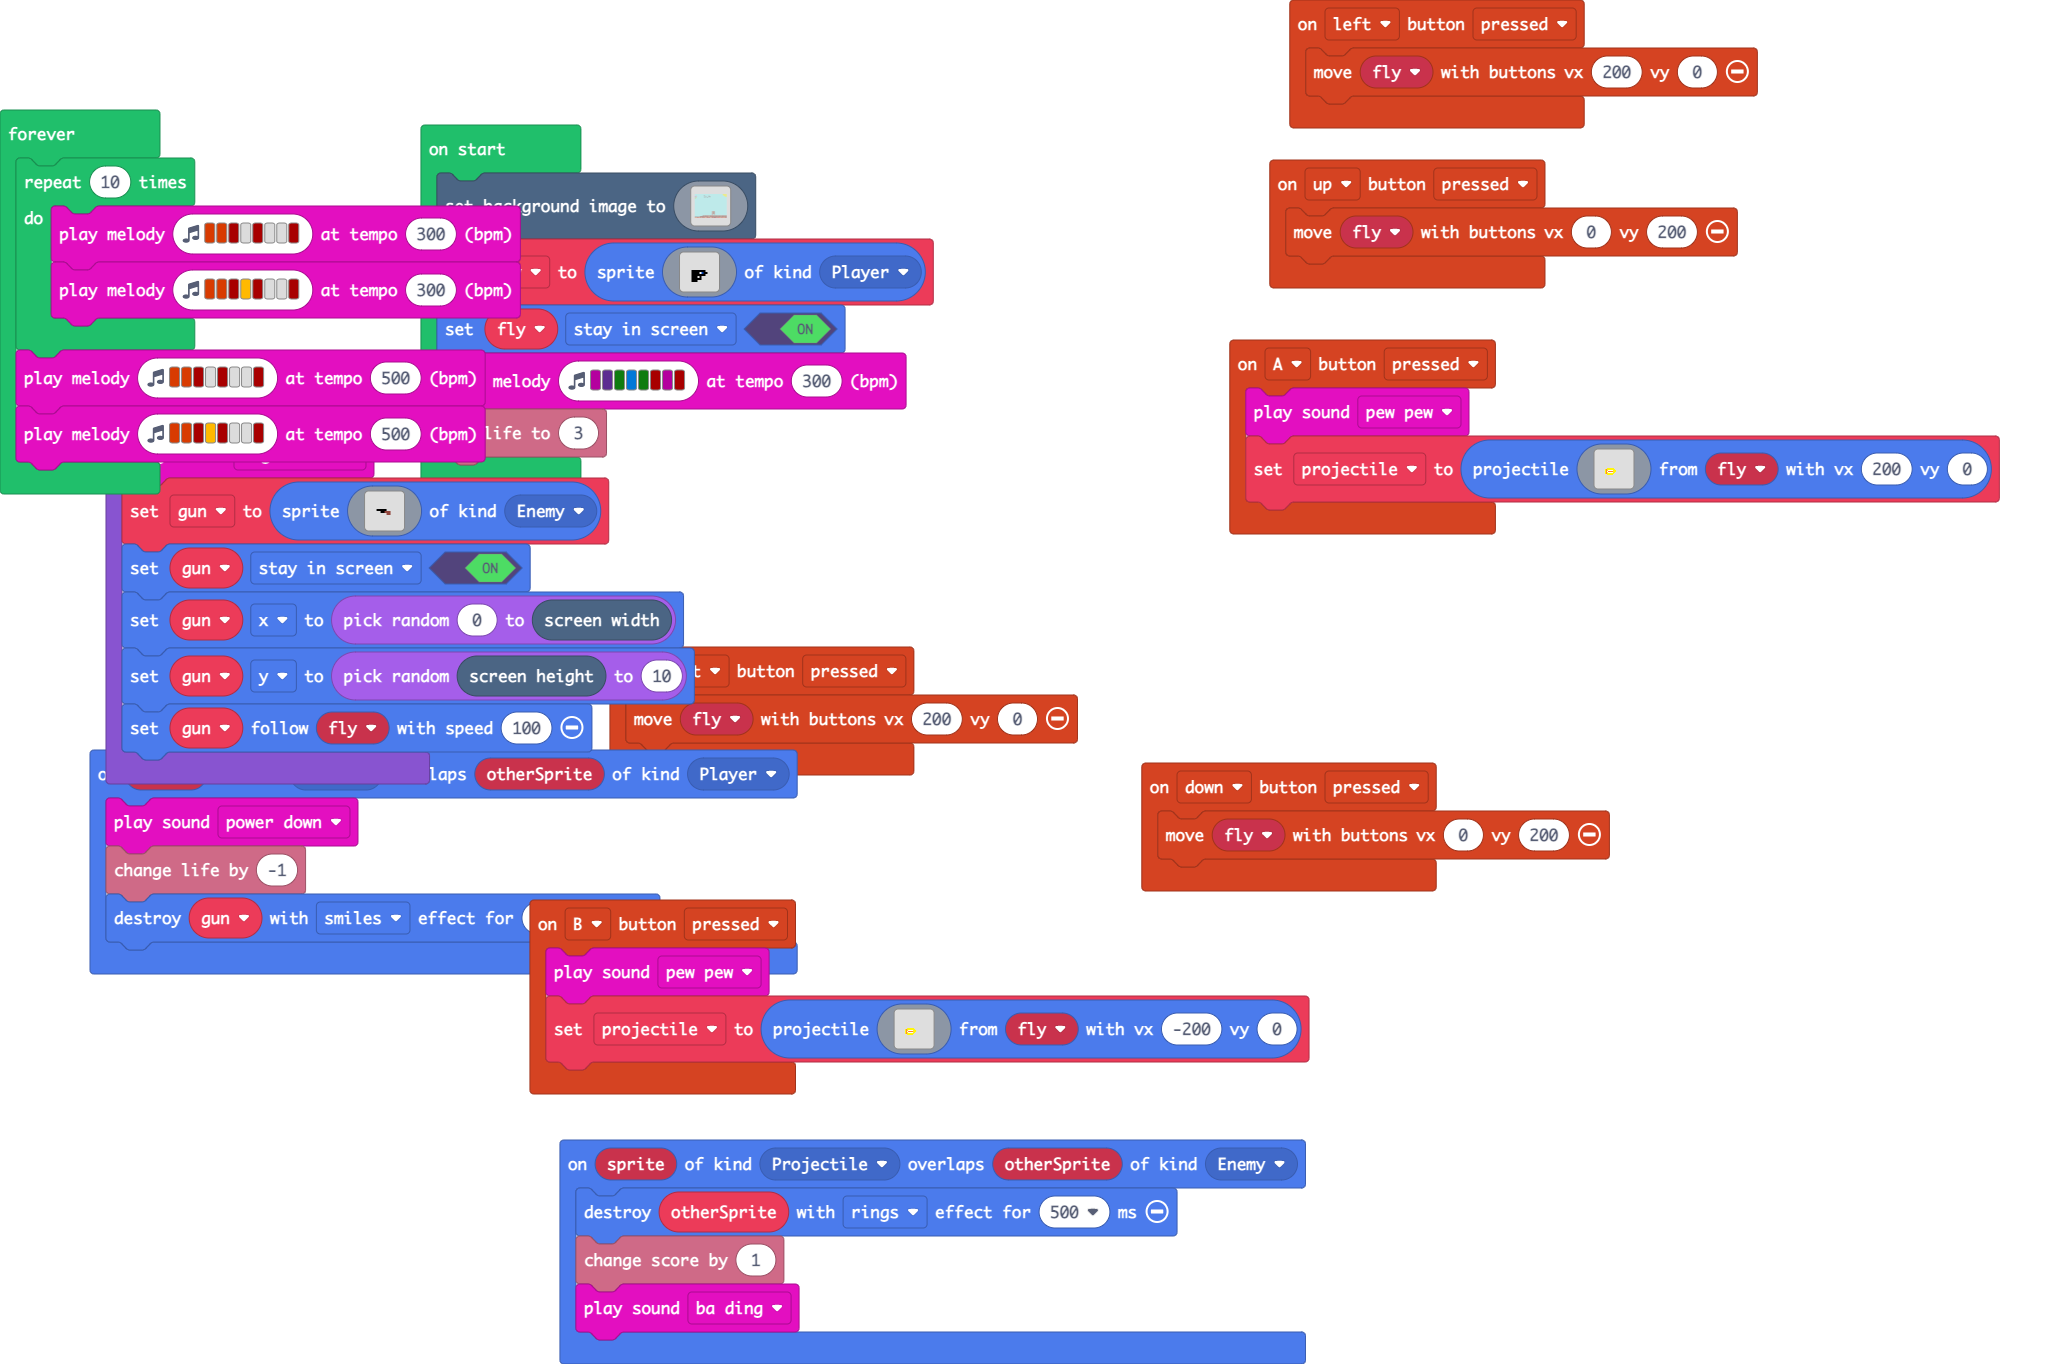
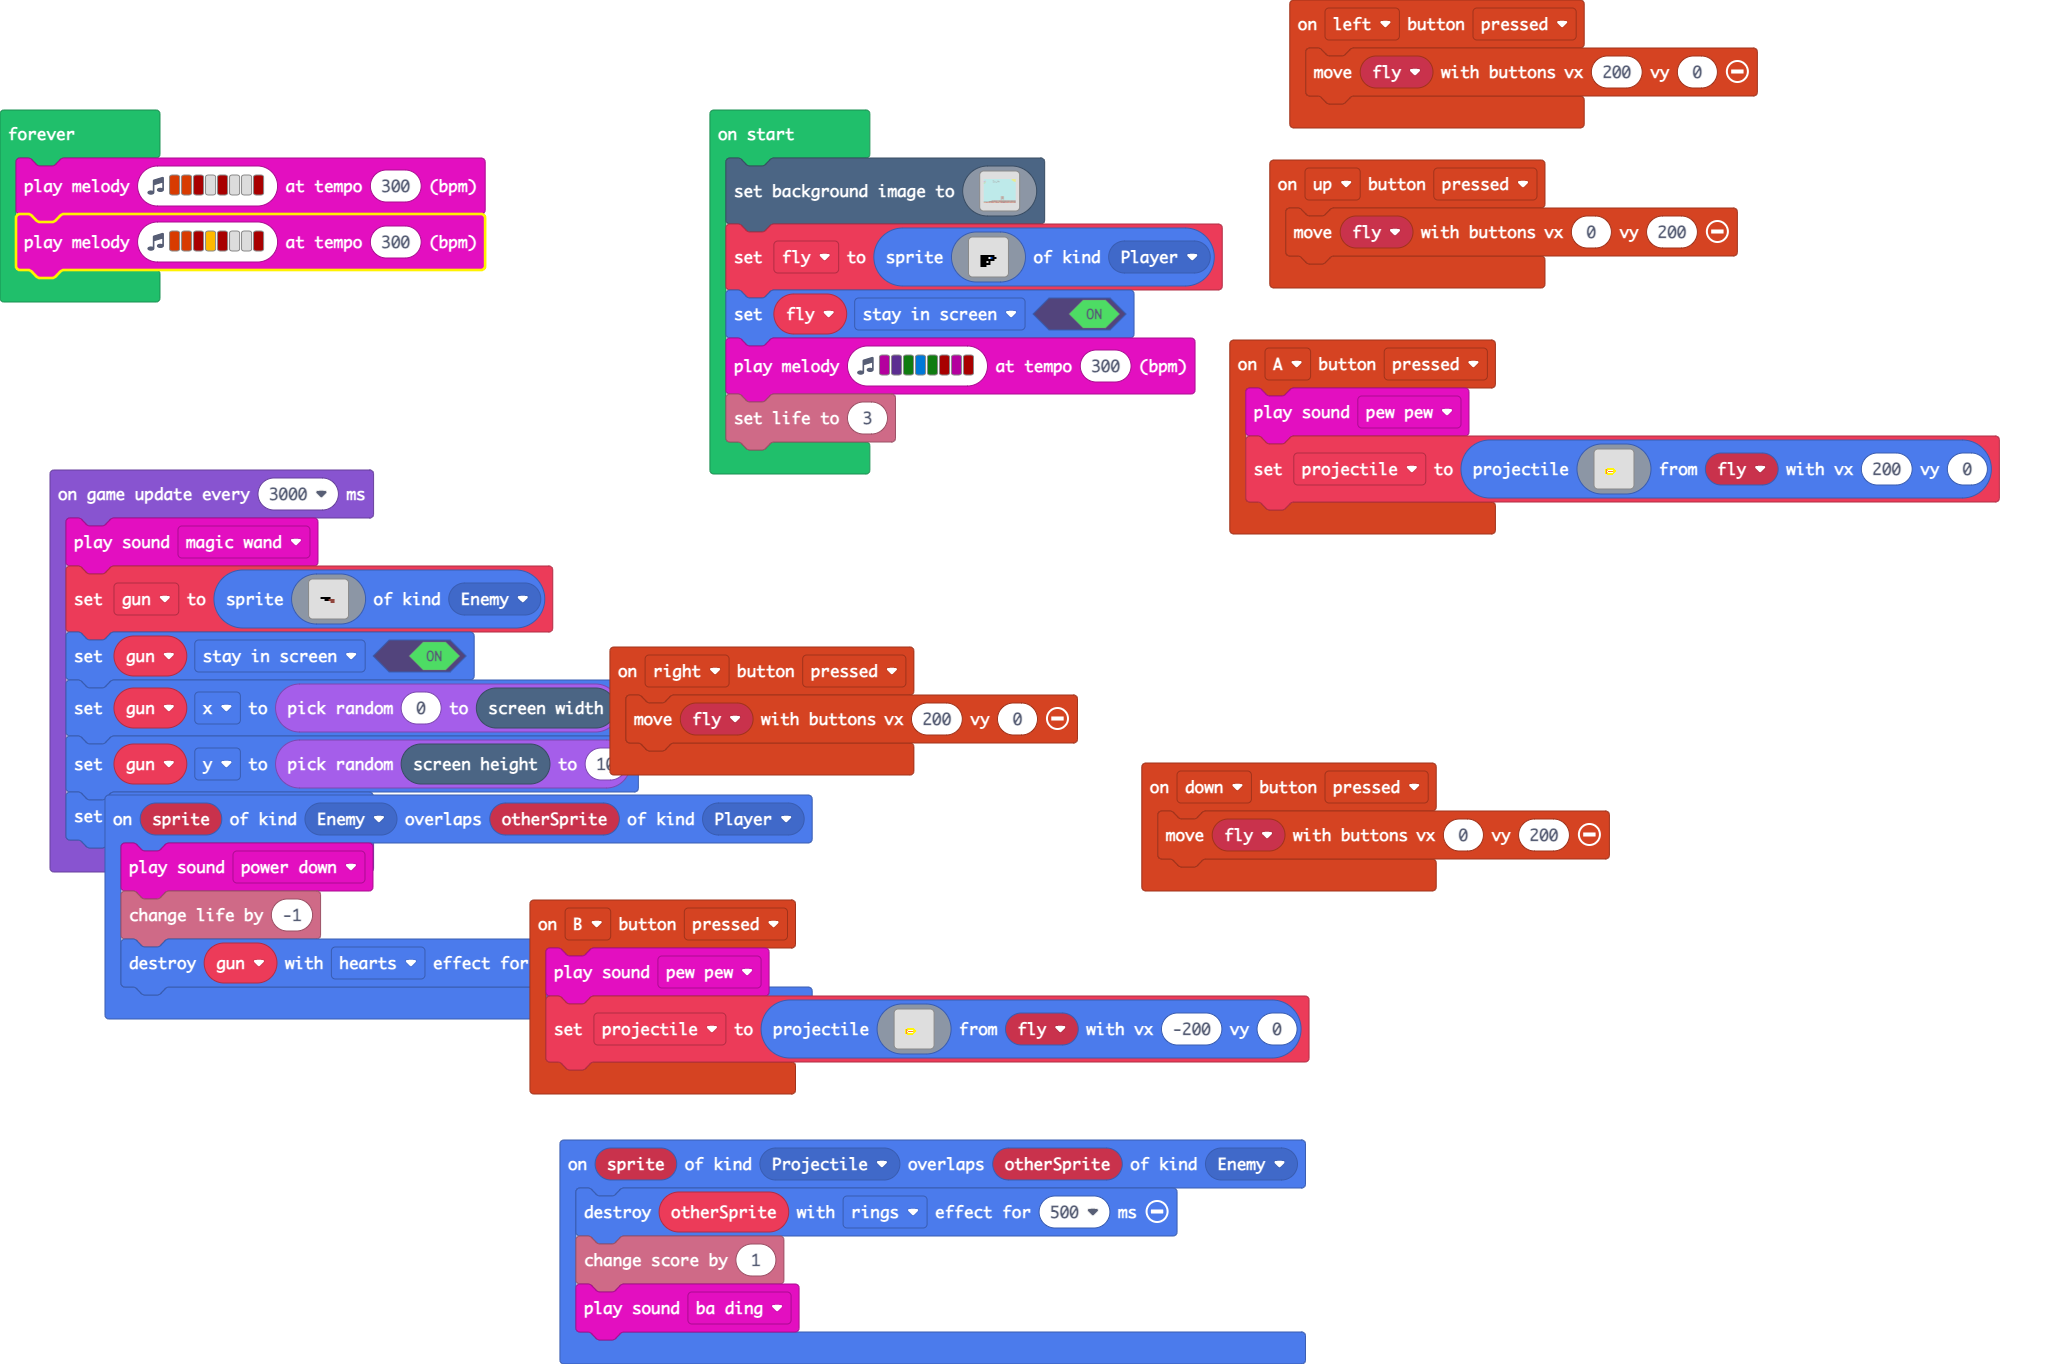
Update main.blocks, main.ts

Changed region(s): [[0.0, 0.0616, 0.6241, 0.7698], [0.3745, 0.6774, 0.4057, 0.739]]

diff --git a/main.ts b/main.ts
@@ -84,7 +84,7 @@ controller.right.onEvent(ControllerButtonEvent.Pressed, function () {
 sprites.onOverlap(SpriteKind.Enemy, SpriteKind.Player, function (sprite, otherSprite) {
     music.powerDown.play()
     info.changeLifeBy(-1)
-    gun.destroy(effects.smiles, 500)
+    gun.destroy(effects.hearts, 500)
 })
 controller.down.onEvent(ControllerButtonEvent.Pressed, function () {
     controller.moveSprite(fly, 0, 200)
@@ -241,12 +241,8 @@ fly.setFlag(SpriteFlag.StayInScreen, true)
 music.playMelody("C D G E G C5 C C5 ", 300)
 info.setLife(3)
 forever(function () {
-    for (let index = 0; index < 10; index++) {
-        music.playMelody("B B C5 - C5 - - C5 ", 300)
-        music.playMelody("B B C5 A C5 - - C5 ", 300)
-    }
-    music.playMelody("B B C5 - C5 - - C5 ", 500)
-    music.playMelody("B B C5 A C5 - - C5 ", 500)
+    music.playMelody("B B C5 - C5 - - C5 ", 300)
+    music.playMelody("B B C5 A C5 - - C5 ", 300)
 })
 game.onUpdateInterval(3000, function () {
     music.magicWand.play()
@@ -271,5 +267,5 @@ game.onUpdateInterval(3000, function () {
     gun.setFlag(SpriteFlag.StayInScreen, true)
     gun.x = randint(0, scene.screenWidth())
     gun.y = randint(scene.screenHeight(), 10)
-    gun.follow(fly, 100)
+    gun.follow(fly)
 })
